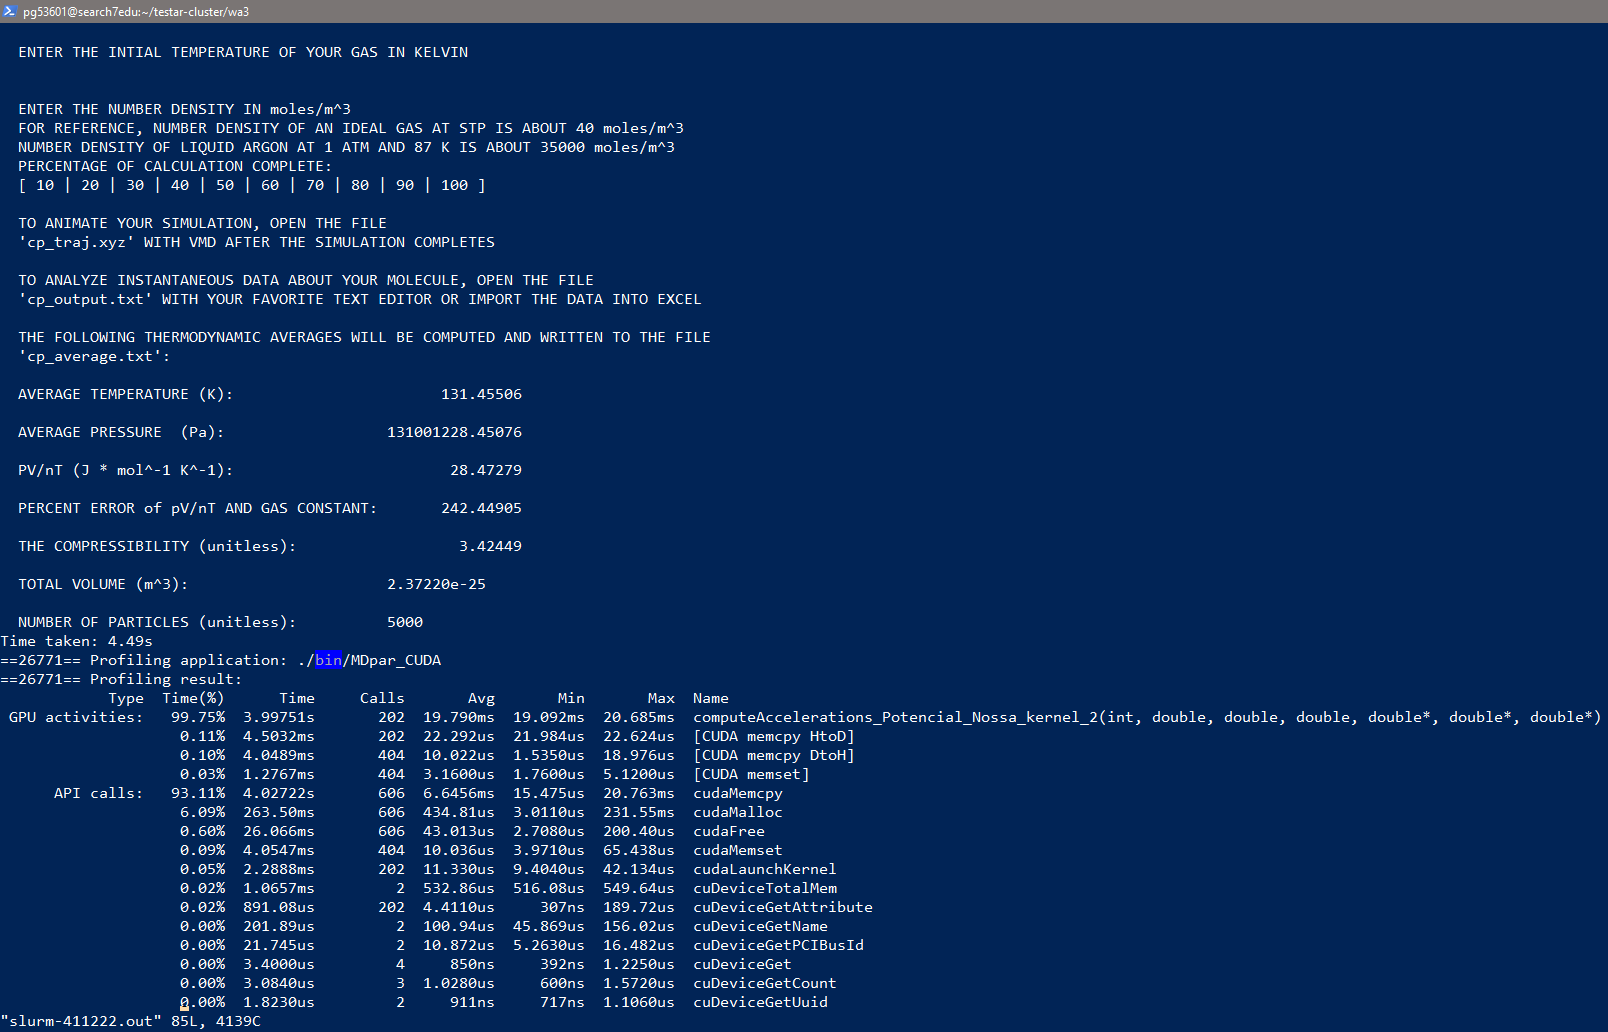
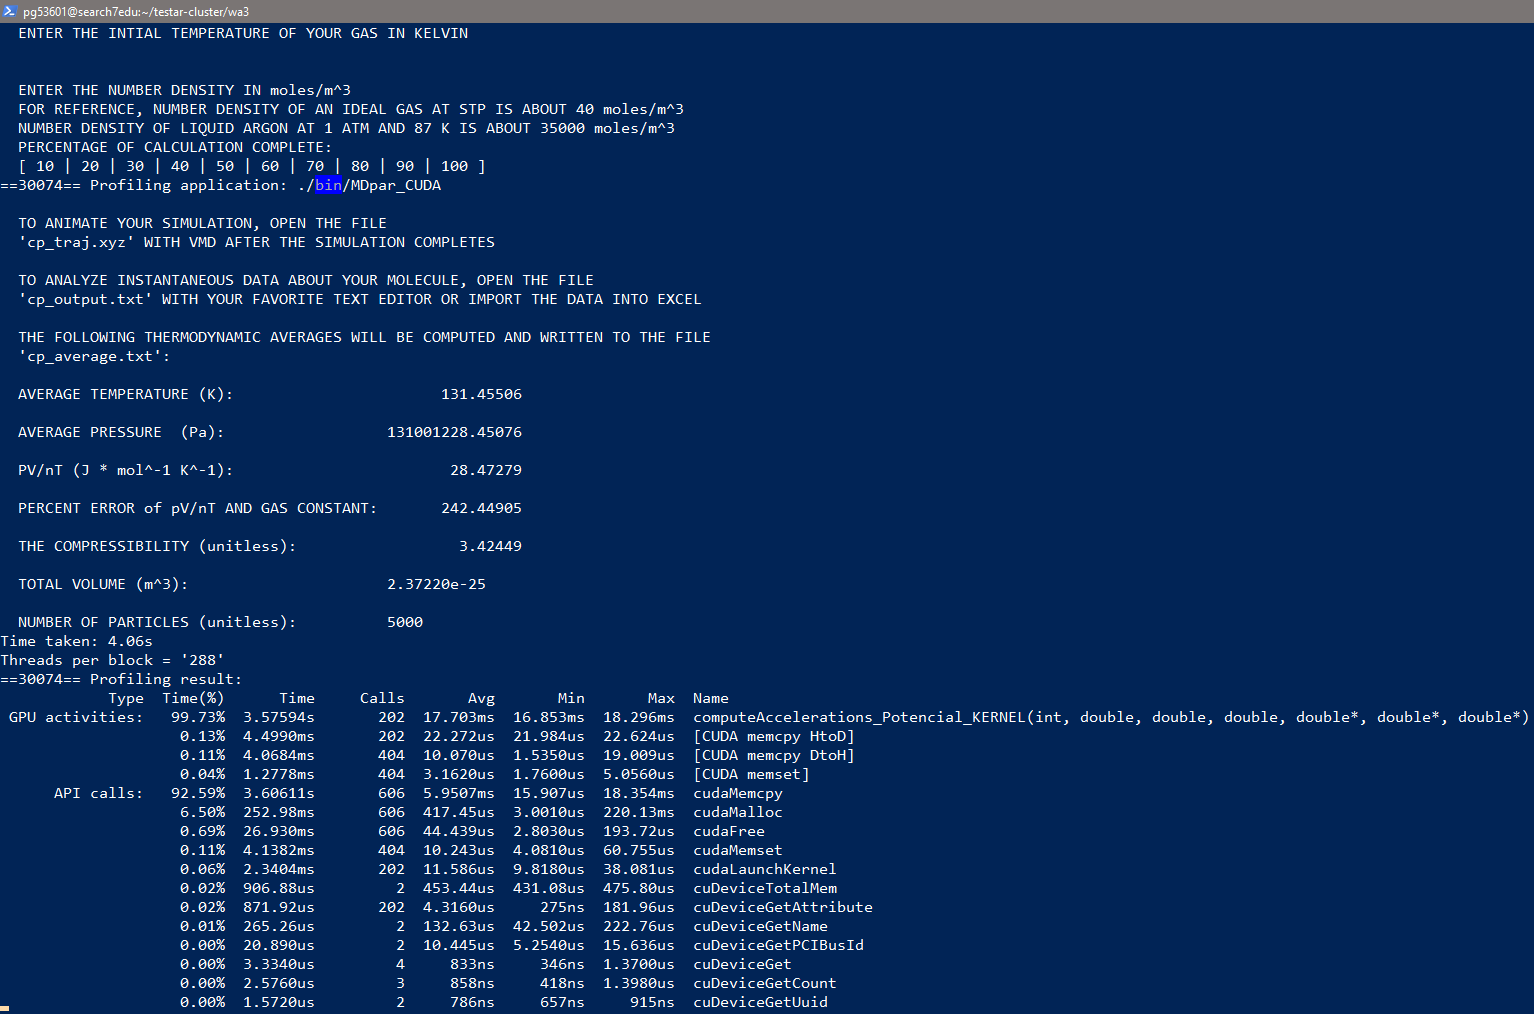
commit WA3

Changed region(s): [[0.0, 0.0, 1.0, 1.0]]

diff --git a/WA3/code/src/MDpar_OPENMP_wa2_corrigido.cpp b/WA3/code/src/MDpar_OPENMP_wa2_corrigido.cpp
@@ -87,7 +87,7 @@ double Kinetic();
 //  Compute Force using F = -dV/dr
 //  solve F = ma for use in Velocity Verlet
 // and Compute total potential energy from particle coordinates
-void computeAccelerations_Potencial_Nossa();
+void computeAccelerations_Potencial();
 
 int main()
 {
@@ -277,7 +277,7 @@ int main()
     //  mass, and this will allow us to update their positions via Newton's law
     //computeAccelerations();
 
-    computeAccelerations_Potencial_Nossa();
+    computeAccelerations_Potencial();
     
     
     // Print number of particles to the trajectory file
@@ -560,7 +560,7 @@ Junção de Potential() com computeAccelerations()
 ##############################################################################################################################################
 */
 
-void computeAccelerations_Potencial_Nossa() {
+void computeAccelerations_Potencial() {
 
     double Pot;
     int i, j, k;
@@ -638,7 +638,7 @@ double VelocityVerlet(double dt, int iter, FILE *fp) {
     //  Update accellerations from updated positions
     //computeAccelerations();
 
-    computeAccelerations_Potencial_Nossa();
+    computeAccelerations_Potencial();
 
     //  Update velocity with updated acceleration
     for (i=0; i<N; i++) {
